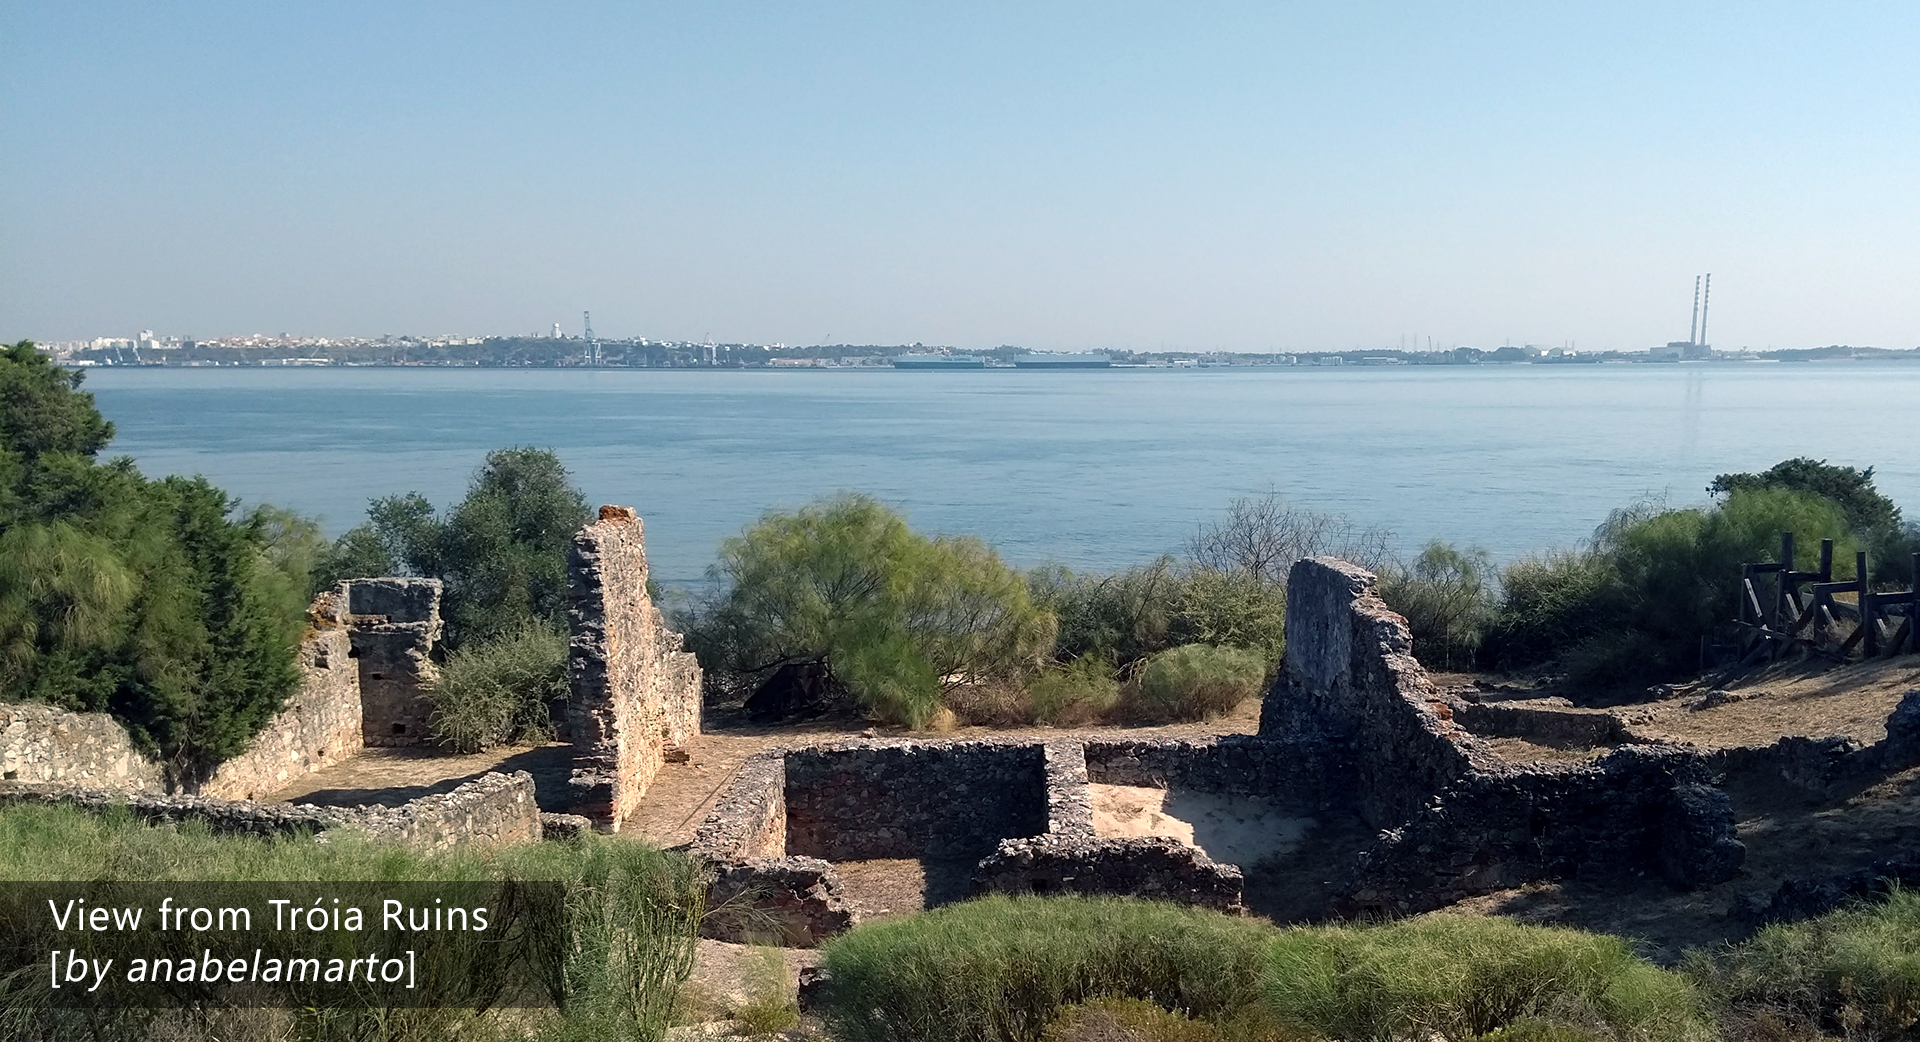
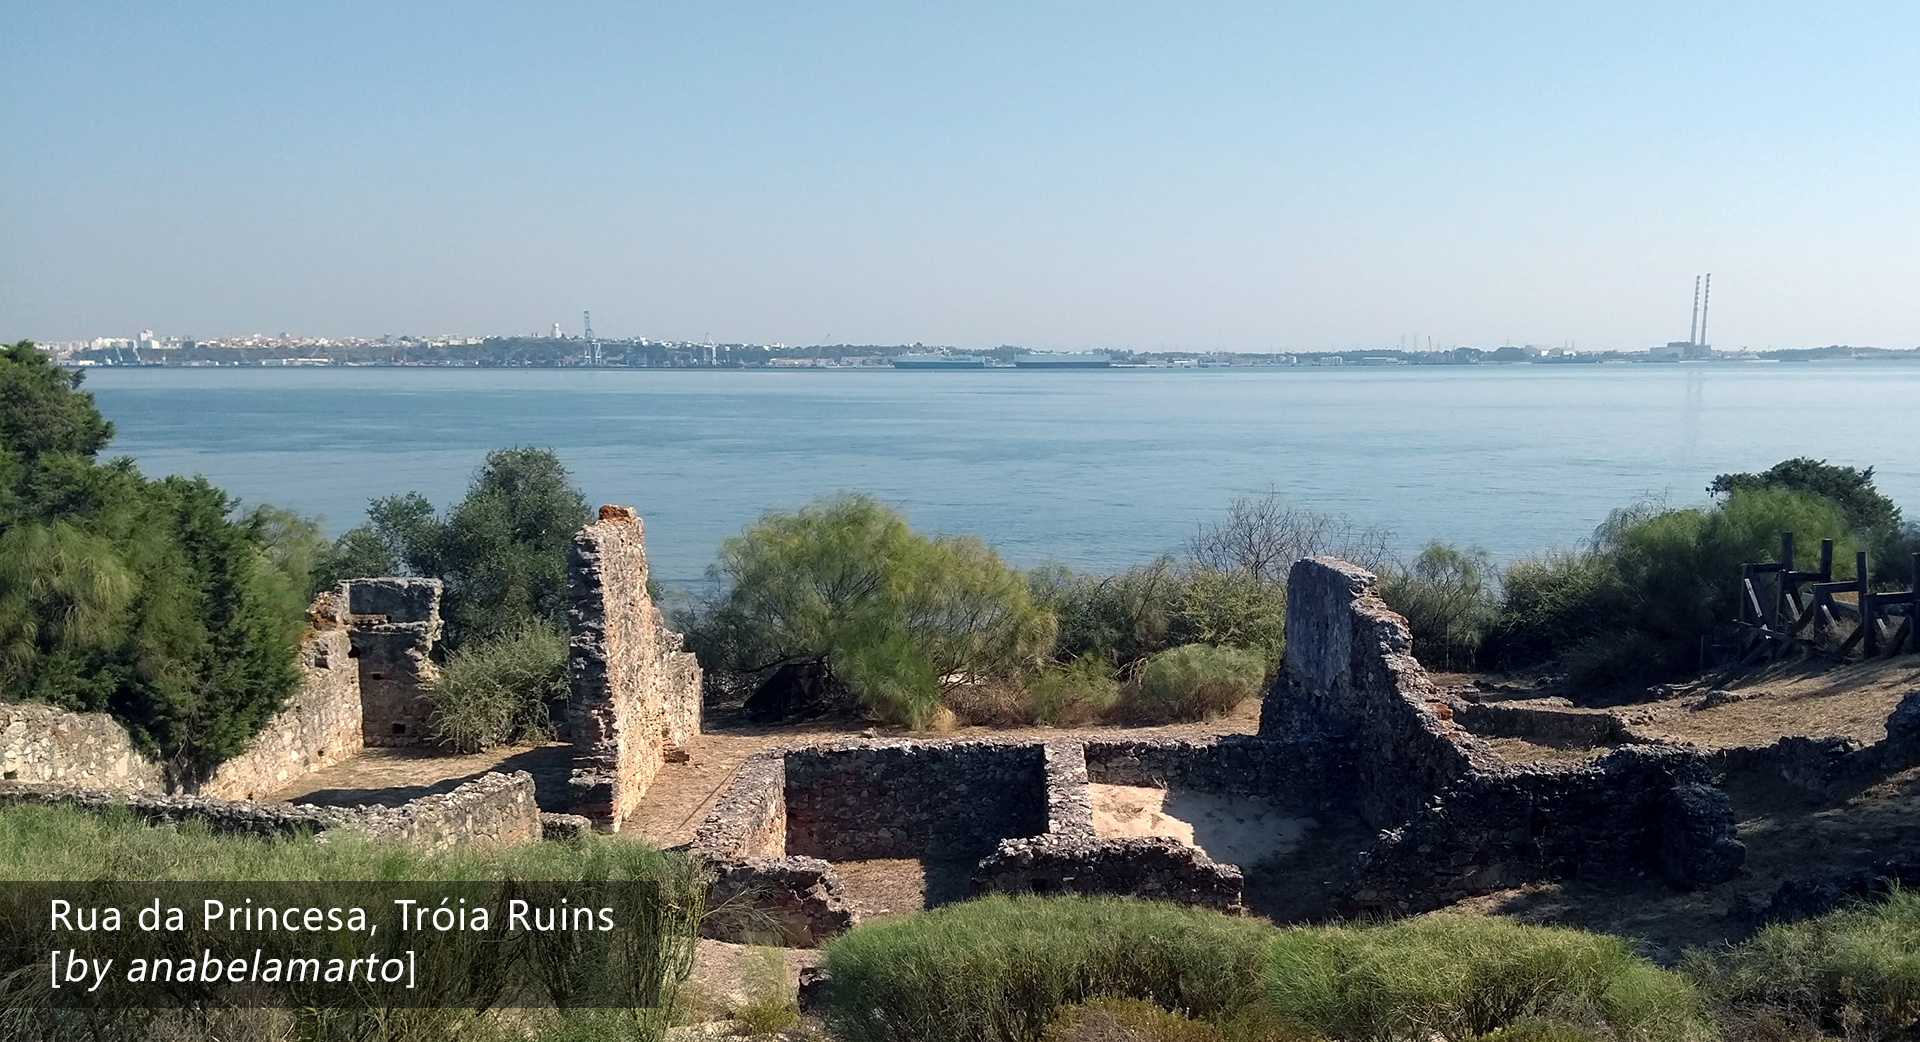
troia_update

Changed region(s): [[0.0312, 0.8292, 0.3438, 0.9827]]

diff --git a/post/troia/index.html b/post/troia/index.html
@@ -1,26 +1,26 @@
 <!doctype html><html lang=en-us><head><meta charset=utf-8><meta name=viewport content="width=device-width,initial-scale=1"><meta http-equiv=x-ua-compatible content="IE=edge"><title>Tróia, Garum for Everyone!</title><meta name=description content><meta name=generator content="Hugo 0.49.1"><meta property=og:title content="Tróia, Garum for Everyone!"><meta property=og:description content="To develop an acceptance study related to the use of augmented reality in archaeological spaces, I had driven to Tróia. I found myself surrounded
 by the beauty and quietness of the river estuary, the richness of historical remnants from Roman Empire,
-and the friendliness of the staff. What a pleasant stay! Let me tell you about this amazing archaeological site."><meta property=og:type content=article><meta property=og:url content=/post/troia/><meta property=article:published_time content=2018-09-16T00:00:00&#43;00:00><meta property=article:modified_time content=2018-09-16T00:00:00&#43;00:00><link rel=dns-prefetch href=//fonts.googleapis.com><link rel=dns-prefetch href=//fonts.gstatic.com><link rel=stylesheet href="https://fonts.googleapis.com/css?family=Open+Sans:400,400i,700"><link rel=stylesheet href=/css/style.css><script type=text/javascript src=/js/scripts.js></script><link rel="shortcut icon" href=/favicon.ico></head><body class=body><div class="container container--outer"><header class=header><div class=container><div class=logo role=banner><a class=logo__link href=/ title=SensiMAR rel=home><div class=logo__title><img class=logo_img src=/img/logo_face.png>SensiMAR</div><div class=logo__tagline>Multisensory Augmented Reality Applied to Cultural Heritage</div></a></div></div><nav class=menu><ul class=menu__list><li class=menu__item><a class=menu__link href=/categories/heritage>Heritage</a></li><li class=menu__item><a class=menu__link href=/categories/technology>Technology</a></li><li class=menu__item><a class=menu__link href=/research/>RESEARCH</a></li><li class=menu__item><a class=menu__link href=/about/>ABOUT SENSIMAR</a></li></ul></nav></header><div class="wrapper flex"><section class=primary><main class=main role=main><article class=post><header class=post__header><h1 class=post__title>Tróia, Garum for Everyone!</h1><div class="post__meta meta"><div class="meta__item-datetime meta__item"><svg class="meta__icon icon icon-time" width="16" height="14" viewBox="0 0 16 16"><path d="m8-3e-7c-4.4.0-8 3.6-8 8C0 12.4 3.6 16 8 16c4.4.0 8-3.6 8-8.0000003.0-4.4-3.6-8-8-8zM8 14.4c-3.52.0-6.4-2.88-6.4-6.4000003.0-3.52 2.88-6.4 6.4-6.4 3.52.0 6.4 2.88 6.4 6.4C14.4 11.52 11.52 14.4 8 14.4zm.4-10.4000003H7.2v4.8l4.16 2.5600003.64-1.04-3.6-2.1600003z"/></svg><time class=meta__text datetime=2018-09-16T00:00:00>September 16, 2018</time></div><div class="meta__item-categories meta__item"><svg class="meta__icon icon icon-category" width="16" height="16" viewBox="0 0 16 16"><path d="m7 2 1 2h8v11H0V2z"/></svg><span class=meta__text><a class=meta__link href=/categories/heritage rel=category>Heritage</a></span></div></div></header><figure class=post__thumbnail><img src=/img/troia/tria_sea.jpg alt="Tróia, Garum for Everyone!"></figure><div class="content post__content clearfix"><p>To develop an acceptance study related to the use of augmented reality in archaeological spaces, I had driven to Tróia. I found myself surrounded
+and the friendliness of the staff. What a pleasant stay! Let me tell you about this amazing archaeological site."><meta property=og:type content=article><meta property=og:url content=/post/troia/><meta property=article:published_time content=2018-09-16T00:00:00&#43;00:00><meta property=article:modified_time content=2018-09-16T00:00:00&#43;00:00><link rel=dns-prefetch href=//fonts.googleapis.com><link rel=dns-prefetch href=//fonts.gstatic.com><link rel=stylesheet href="https://fonts.googleapis.com/css?family=Open+Sans:400,400i,700"><link rel=stylesheet href=/css/style.css><script type=text/javascript src=/js/scripts.js></script><link rel="shortcut icon" href=/favicon.ico></head><body class=body><div class="container container--outer"><header class=header><div class=container><div class=logo role=banner><a class=logo__link href=/ title=SensiMAR rel=home><div class=logo__title><img class=logo_img src=/img/logo_face.png>SensiMAR</div><div class=logo__tagline>Multisensory Augmented Reality Applied to Cultural Heritage</div></a></div></div><nav class=menu><ul class=menu__list><li class=menu__item><a class=menu__link href=/categories/heritage>Heritage</a></li><li class=menu__item><a class=menu__link href=/categories/technology>Technology</a></li><li class=menu__item><a class=menu__link href=/research/>RESEARCH</a></li><li class=menu__item><a class=menu__link href=/about/>ABOUT SENSIMAR</a></li></ul></nav></header><div class="wrapper flex"><section class=primary><main class=main role=main><article class=post><header class=post__header><h1 class=post__title>Tróia, Garum for Everyone!</h1><div class="post__meta meta"><div class="meta__item-datetime meta__item"><svg class="meta__icon icon icon-time" width="16" height="14" viewBox="0 0 16 16"><path d="m8-3e-7c-4.4.0-8 3.6-8 8C0 12.4 3.6 16 8 16c4.4.0 8-3.6 8-8.0000003.0-4.4-3.6-8-8-8zM8 14.4c-3.52.0-6.4-2.88-6.4-6.4000003.0-3.52 2.88-6.4 6.4-6.4 3.52.0 6.4 2.88 6.4 6.4C14.4 11.52 11.52 14.4 8 14.4zm.4-10.4000003H7.2v4.8l4.16 2.5600003.64-1.04-3.6-2.1600003z"/></svg><time class=meta__text datetime=2018-09-16T00:00:00>September 16, 2018</time></div><div class="meta__item-categories meta__item"><svg class="meta__icon icon icon-category" width="16" height="16" viewBox="0 0 16 16"><path d="m7 2 1 2h8v11H0V2z"/></svg><span class=meta__text><a class=meta__link href=/categories/heritage rel=category>Heritage</a></span></div></div></header><figure class=post__thumbnail><img src=/img/troia/necropole_view.jpg alt="Tróia, Garum for Everyone!"></figure><div class="content post__content clearfix"><p>To develop an acceptance study related to the use of augmented reality in archaeological spaces, I had driven to Tróia. I found myself surrounded
 by the beauty and quietness of the river estuary, the richness of historical remnants from Roman Empire,
 and the friendliness of the staff. What a pleasant stay! Let me tell you about this amazing archaeological site.</p><p></p><p>The Roman Ruins of Tróia were a large fish-salting production complex built in the first half of the 1<sup>st</sup> century AD and became
 an urban-type settlement, composed by many fish-salting factories of different sizes.</p><h2 id=the-settlement>The settlement</h2><p>Situated on a narrow stretch of sand which would have been an island in Roman times, probably, the island of <em>Achale</em> (mentioned by the Latin
 writer <em>Avenius</em>), this roman settlement is also composed by houses, a bath complex, several cemeteries,
 a mausoleum and an early Christian basilica.</p><p><img src=/img/troia/view.jpg alt="Workshops, Tróia"></p><h2 id=fish-salting-workshops>Fish-salting workshops</h2><p>Profiting from the abundance of fish in the Atlantic and the outstanding salt production of the Sado estuary, it produced salted fish and fish sauces,
-among which was the famous <em>garum</em>.</p><p><img src=/img/troia/troia.jpg alt="Workshops, Tróia"></p><p><strong>Fish-salting workshop 1</strong></p><p>Is the largest fish-salting workshop uncovered in Tróia and one of the largest in the Roman world.
+among which was the famous <em>garum</em>.</p><p>A total of 27 workshops are known, we will talk about two of them.</p><p><img src=/img/troia/troia.jpg alt="Workshops, Tróia"></p><p><strong>Fish-salting workshop 1</strong></p><p>Is the largest fish-salting workshop uncovered in Tróia and one of the largest in the Roman world.
 The excavations, since 1950s, demonstrate that this workshop had at least two phases: one large space with tanks along the four walls and a large
 central patio with a well (in the 1<sup>st</sup> and 2<sup>nd</sup> centuries), and smaller workshops that have been divided (in the 3<sup>rd</sup> century).</p><p><strong>Fish-salting workshop 2</strong></p><p>Smaller than workshop 1, it is believed that in its much smaller tanks, different products must have been prepared.
 This workshop was also divided in the 3<sup>rd</sip> century AD into two smaller workshops.</p><p><img src=/img/troia/troia2.jpg alt="Workshops, Tróia"></p><h2 id=baths>Baths</h2><p>Certainly, belonging to the owner of the fish-salting factory, this bath complex ensured bathing facilities for the owners
 as well as for foremen and workmen, freeman or slaves.</p><p>The heated area of the baths had a hot area (<em>caldarium</em>), next to a furnace (<em>praefurnium</em>) and a tepid room (<em>tepidarium</em>), giving way
 to the cold area (<em>frigidarium</em>).</p><h2 id=mausoleum>Mausoleum</h2><p>According to the practice of cremation, typical of Roman culture, a mausoleum was built with niches on the walls for funerary urns.
 At the end of the 2<sup>nd</sup> century AD, a new practice of inhumation was adopted and, on the ground, tombs were built for placing
-corpses in graves.</p><h2 id=necropole>Necropole</h2><p><img src=/img/troia/mausoleum.jpg alt="Mausoleum, Tróia"></p><p>On top of a dune made of sand and garbage which had accumulated behind the mausoleum, inhumations were buried in tombs constructed of brick and stone.
-These tombs have a typical Christian orientation, heads to northwest and feet to southeast.</p><p><img src=/img/troia/necropole_view.jpg alt="Necropole View, Tróia"></p><h2 id=my-experience>My experience</h2><p>I visited this wonderful space for two times: the first time because I wanted to include this archaeological space in my study;
+corpses in graves.</p><h2 id=necropole>Necropole</h2><p>Necropole is the given name for ancient cemeteries, when the folk dropped the creamtion habits. The walls of a rectangular construction nearby could be a chapel for performing funerary rituals.</p><p><img src=/img/troia/mausoleum.jpg alt="Mausoleum, Tróia"></p><p>On top of a dune made of sand and garbage which had accumulated behind the mausoleum, inhumations were buried in tombs constructed of brick and stone.
+These tombs have a typical Christian orientation, heads to northwest and feet to southeast.</p><p>At a later point in time, among the thombs, were burried many children in amphorae.</p><h2 id=the-residential-area-rua-da-princesa>The residential area: Rua da Princesa</h2><p>Rua da PRincesa is the only residential are aknown so far in the settlement of Tróia. This archaeological area owes its name to Queen D. Maria I, who, while still a princess, carried out the first known excavations in Tróia.</p><p><img src=/img/troia/maria.jpg alt="QueenMaria, Tróia" width=50%></p><p>Several buildings were aligned along the cost line with an excellent view (as you can see in the following picture). The buildings that were uncovered had ground and first floor levels.</p><p><img src=/img/troia/tria_sea.jpg alt="RuaPrincesa, Tróia"></p><h2 id=my-experience>My experience</h2><p>I visited this wonderful space for two times: the first time because I wanted to include this archaeological space in my study;
 the second, because I loved this place and I wanted to come back.</p><p>In my second visit there, a school was also visiting the space and they were playing this treasure hunt game, it seems to be very fun!
 And it was so amusing watching these little kids so enthusiastic about decoding the clues related to the Roman times and conconquering
 the final treasure: a delicious sauce fish, alluding to <em>garum</em>.</p><p><img src=/img/troia/questionarios.jpg alt="questionnaires, Tróia"></p><p>A total of 34 visitors kindly participated in my study and contributed for a better understanding related to acceptance and intention to use
 augmented reality in archaeological sites.</p><h2 id=want-to-know-more>Want to know more?</h2><p>Roman Ruins of Tróia are worth your visit, for individual visitants, and also for schools with their fun and didactic school programs.
 You can find more information about this archaeological site in their website:
-<a href=http://www.troiaresort.pt/en/troia-roman-ruins/ target=_blank>Roman Ruins of Tróia</a>.</p><h2 id=historical-review>Historical Review</h2><p>This article was reviewed by Patrícia Brum, Archaeologist at Troiaresort.</p></div><div class="post__tags tags clearfix"><svg class="icon icon-tag" width="16" height="16" viewBox="0 0 16 16"><path d="M16 9.5c0 .373-.24.74-.5 1l-5 5c-.275.26-.634.5-1 .5-.373.0-.74-.24-1-.5L1 8a2.853 2.853.0 0 1-.7-1C.113 6.55.0 5.973.0 5.6V1.4C0 1.034.134.669.401.401.67.134 1.034.0 1.4.0h4.2c.373.0.95.113 1.4.3.45.187.732.432 1 .7l7.5 7.502c.26.274.5.632.5.998zM3.5 5a1.5 1.5.0 1 0 0-3 1.5 1.5.0 0 0 0 3z"/></svg><ul class=tags__list><li class=tags__item><a class="tags__link btn" href=/tags/cultural-heritage/ rel=tag>Cultural Heritage</a></li><li class=tags__item><a class="tags__link btn" href=/tags/acceptance-study/ rel=tag>Acceptance Study</a></li></ul></div></article></main><div class="authorbox clearfix"><figure class=authorbox__avatar><img alt="Anabela Marto avatar" src=/img/avatar.jpg class=avatar height=90 width=90></figure><div class=authorbox__header><span class=authorbox__name>About Anabela Marto</span></div><div class=authorbox__description>Anabela Marto is an Invited Lecturer in the Department of Informatics Engineering at the Superior School of Technology and Management (ESTG) - Polytechnic of Leiria (IPLeiria) - and a Researcher at Computer Science and Communication Research Centre (CIIC). Her research topics are related to Mobile Augmented Reality applied in Cultural Heritage contexts. She is graduated in Computer Engineering (ESTG - IPLeiria), has a master degree in Multimedia - specialization in Technologies (FEUP - Faculty of Engineering of the University of Porto) and she is a PhD student in Informatics (UTAD - University of Trás-os-Montes and Alto Douro).</div></div><nav class="post-nav flex"><div class="post-nav__item post-nav__item--prev"><a class=post-nav__link href=/post/dinofelis/ rel=prev><span class=post-nav__caption>«&thinsp;Previous</span><p class=post-nav__post-title>DinofelisAR: mobile AR for Cultural Heritage</p></a></div><div class="post-nav__item post-nav__item--next"><a class=post-nav__link href=/post/cucufate/ rel=next><span class=post-nav__caption>Next&thinsp;»</span><p class=post-nav__post-title>S. Cucufate, I Found a Cultural Treasure</p></a></div></nav></section><aside class=sidebar><div class="widget-search widget"><form class=widget-search__form role=search method=get action=https://google.com/search><label><input class=widget-search__field type=search placeholder=SEARCH... name=q aria-label=SEARCH...></label>
+<a href=http://www.troiaresort.pt/en/troia-roman-ruins/ target=_blank>Roman Ruins of Tróia</a>.</p><h2 id=historical-review>Historical Review</h2><p>This article was reviewed by Patrícia Brum, Archaeologist at Troiaresort. She is also a researcher in Instituto de História Contemporânea, of Faculdade de Ciências e Humanas, Universidade Nova de Lisboa, and a secretary-general at ICOMOS Portugal.</p></div><div class="post__tags tags clearfix"><svg class="icon icon-tag" width="16" height="16" viewBox="0 0 16 16"><path d="M16 9.5c0 .373-.24.74-.5 1l-5 5c-.275.26-.634.5-1 .5-.373.0-.74-.24-1-.5L1 8a2.853 2.853.0 0 1-.7-1C.113 6.55.0 5.973.0 5.6V1.4C0 1.034.134.669.401.401.67.134 1.034.0 1.4.0h4.2c.373.0.95.113 1.4.3.45.187.732.432 1 .7l7.5 7.502c.26.274.5.632.5.998zM3.5 5a1.5 1.5.0 1 0 0-3 1.5 1.5.0 0 0 0 3z"/></svg><ul class=tags__list><li class=tags__item><a class="tags__link btn" href=/tags/cultural-heritage/ rel=tag>Cultural Heritage</a></li><li class=tags__item><a class="tags__link btn" href=/tags/acceptance-study/ rel=tag>Acceptance Study</a></li></ul></div></article></main><div class="authorbox clearfix"><figure class=authorbox__avatar><img alt="Anabela Marto avatar" src=/img/avatar.jpg class=avatar height=90 width=90></figure><div class=authorbox__header><span class=authorbox__name>About Anabela Marto</span></div><div class=authorbox__description>Anabela Marto is an Invited Lecturer in the Department of Informatics Engineering at the Superior School of Technology and Management (ESTG) - Polytechnic of Leiria (IPLeiria) - and a Researcher at Computer Science and Communication Research Centre (CIIC). Her research topics are related to Mobile Augmented Reality applied in Cultural Heritage contexts. She is graduated in Computer Engineering (ESTG - IPLeiria), has a master degree in Multimedia - specialization in Technologies (FEUP - Faculty of Engineering of the University of Porto) and she is a PhD student in Informatics (UTAD - University of Trás-os-Montes and Alto Douro).</div></div><nav class="post-nav flex"><div class="post-nav__item post-nav__item--prev"><a class=post-nav__link href=/post/dinofelis/ rel=prev><span class=post-nav__caption>«&thinsp;Previous</span><p class=post-nav__post-title>DinofelisAR: mobile AR for Cultural Heritage</p></a></div><div class="post-nav__item post-nav__item--next"><a class=post-nav__link href=/post/cucufate/ rel=next><span class=post-nav__caption>Next&thinsp;»</span><p class=post-nav__post-title>S. Cucufate, I Found a Cultural Treasure</p></a></div></nav></section><aside class=sidebar><div class="widget-search widget"><form class=widget-search__form role=search method=get action=https://google.com/search><label><input class=widget-search__field type=search placeholder=SEARCH... name=q aria-label=SEARCH...></label>
 <input class=widget-search__submit type=submit value=Search>
 <input type=hidden name=sitesearch value=/></form></div><div class="widget-recent widget"><h4 class=widget__title>Recent Posts</h4><div class=widget__content><ul class=widget__list><li class=widget__item><a class=widget__link href=/post/multisen-icgi/>Multisensory in Cultural Heritage?</a></li><li class=widget__item><a class=widget__link href=/post/mozinho/>Discovering Monte Mozinho Castro</a></li><li class=widget__item><a class=widget__link href=/post/mirobriga/>Miróbriga: Uncovering the Southern Portugal</a></li><li class=widget__item><a class=widget__link href=/post/cucufate/>S. Cucufate, I Found a Cultural Treasure</a></li><li class=widget__item><a class=widget__link href=/post/troia/>Tróia, Garum for Everyone!</a></li></ul></div></div><div class="widget-categories widget"><h4 class=widget__title>Categories</h4><div class=widget__content><ul class=widget__list><li class=widget__item><a class=widget__link href=/categories/heritage>Heritage</a></li><li class=widget__item><a class=widget__link href=/categories/technology>Technology</a></li></ul></div></div><div class="widget-taglist widget"><h4 class=widget__title>Tags</h4><div class=widget__content><a class="widget-taglist__link widget__link btn" href=/tags/acceptance-study title="Acceptance study">Acceptance study</a>
 <a class="widget-taglist__link widget__link btn" href=/tags/augmented-reality title="Augmented reality">Augmented reality</a>
